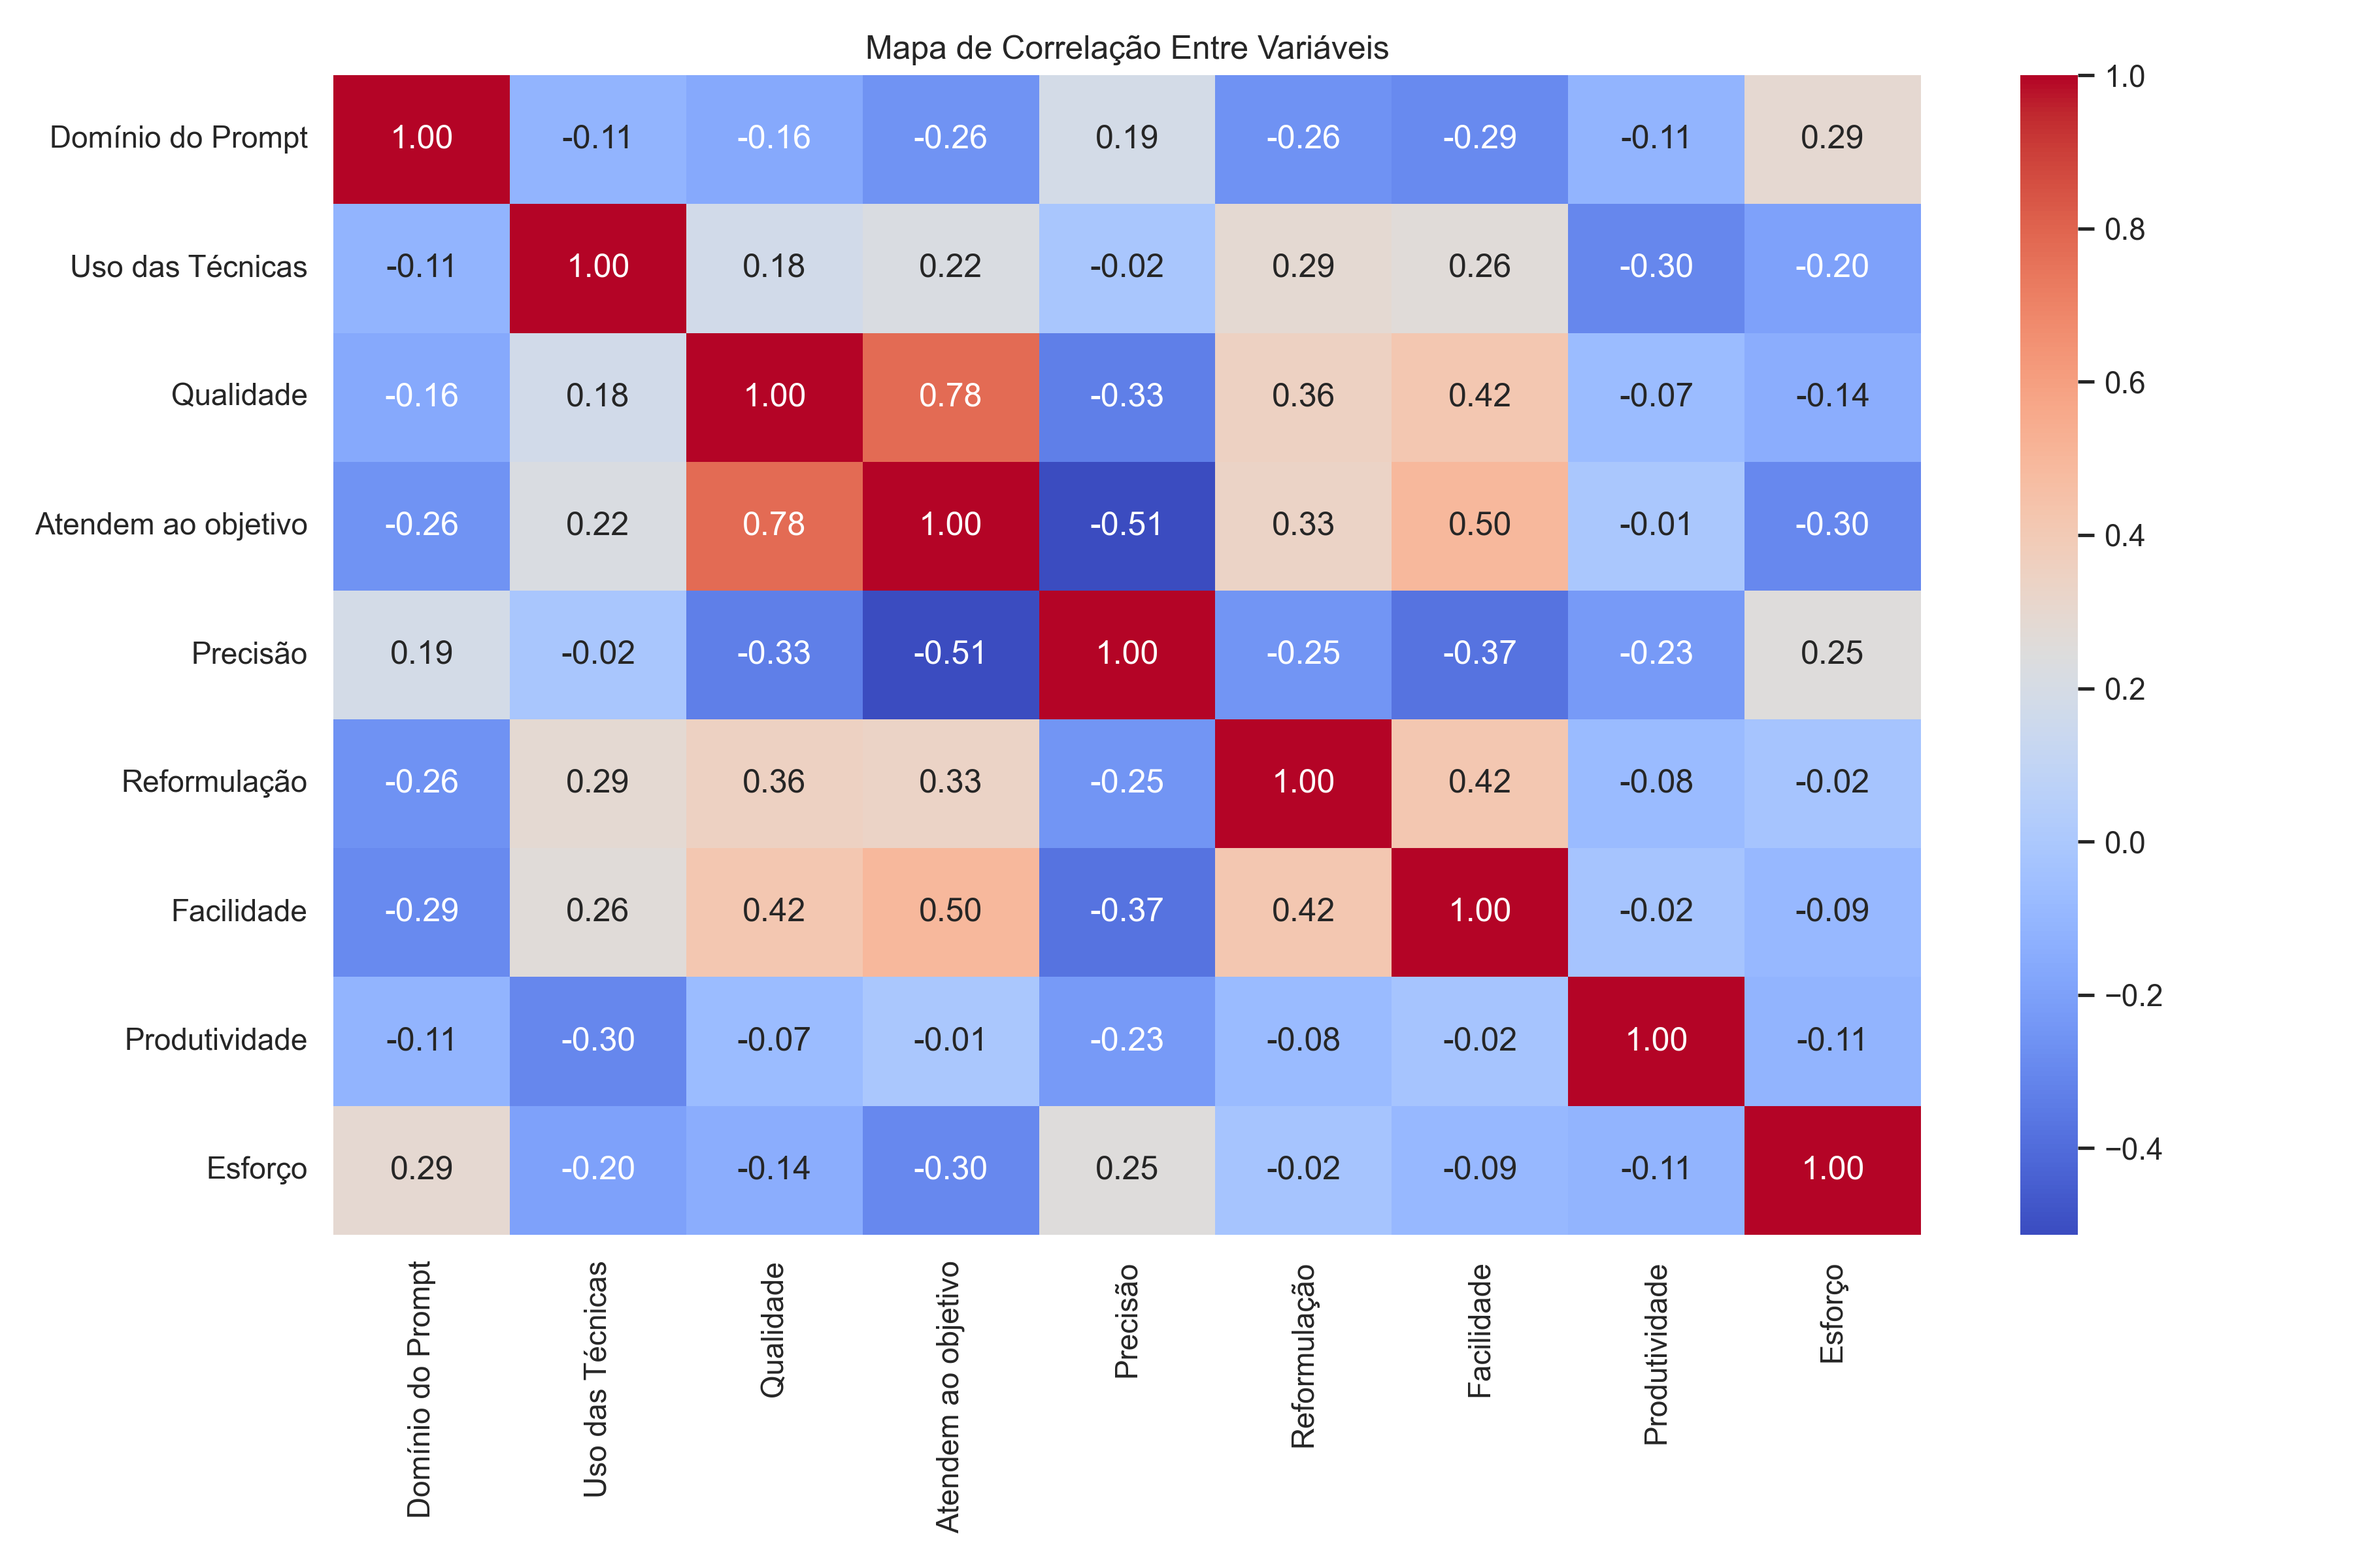
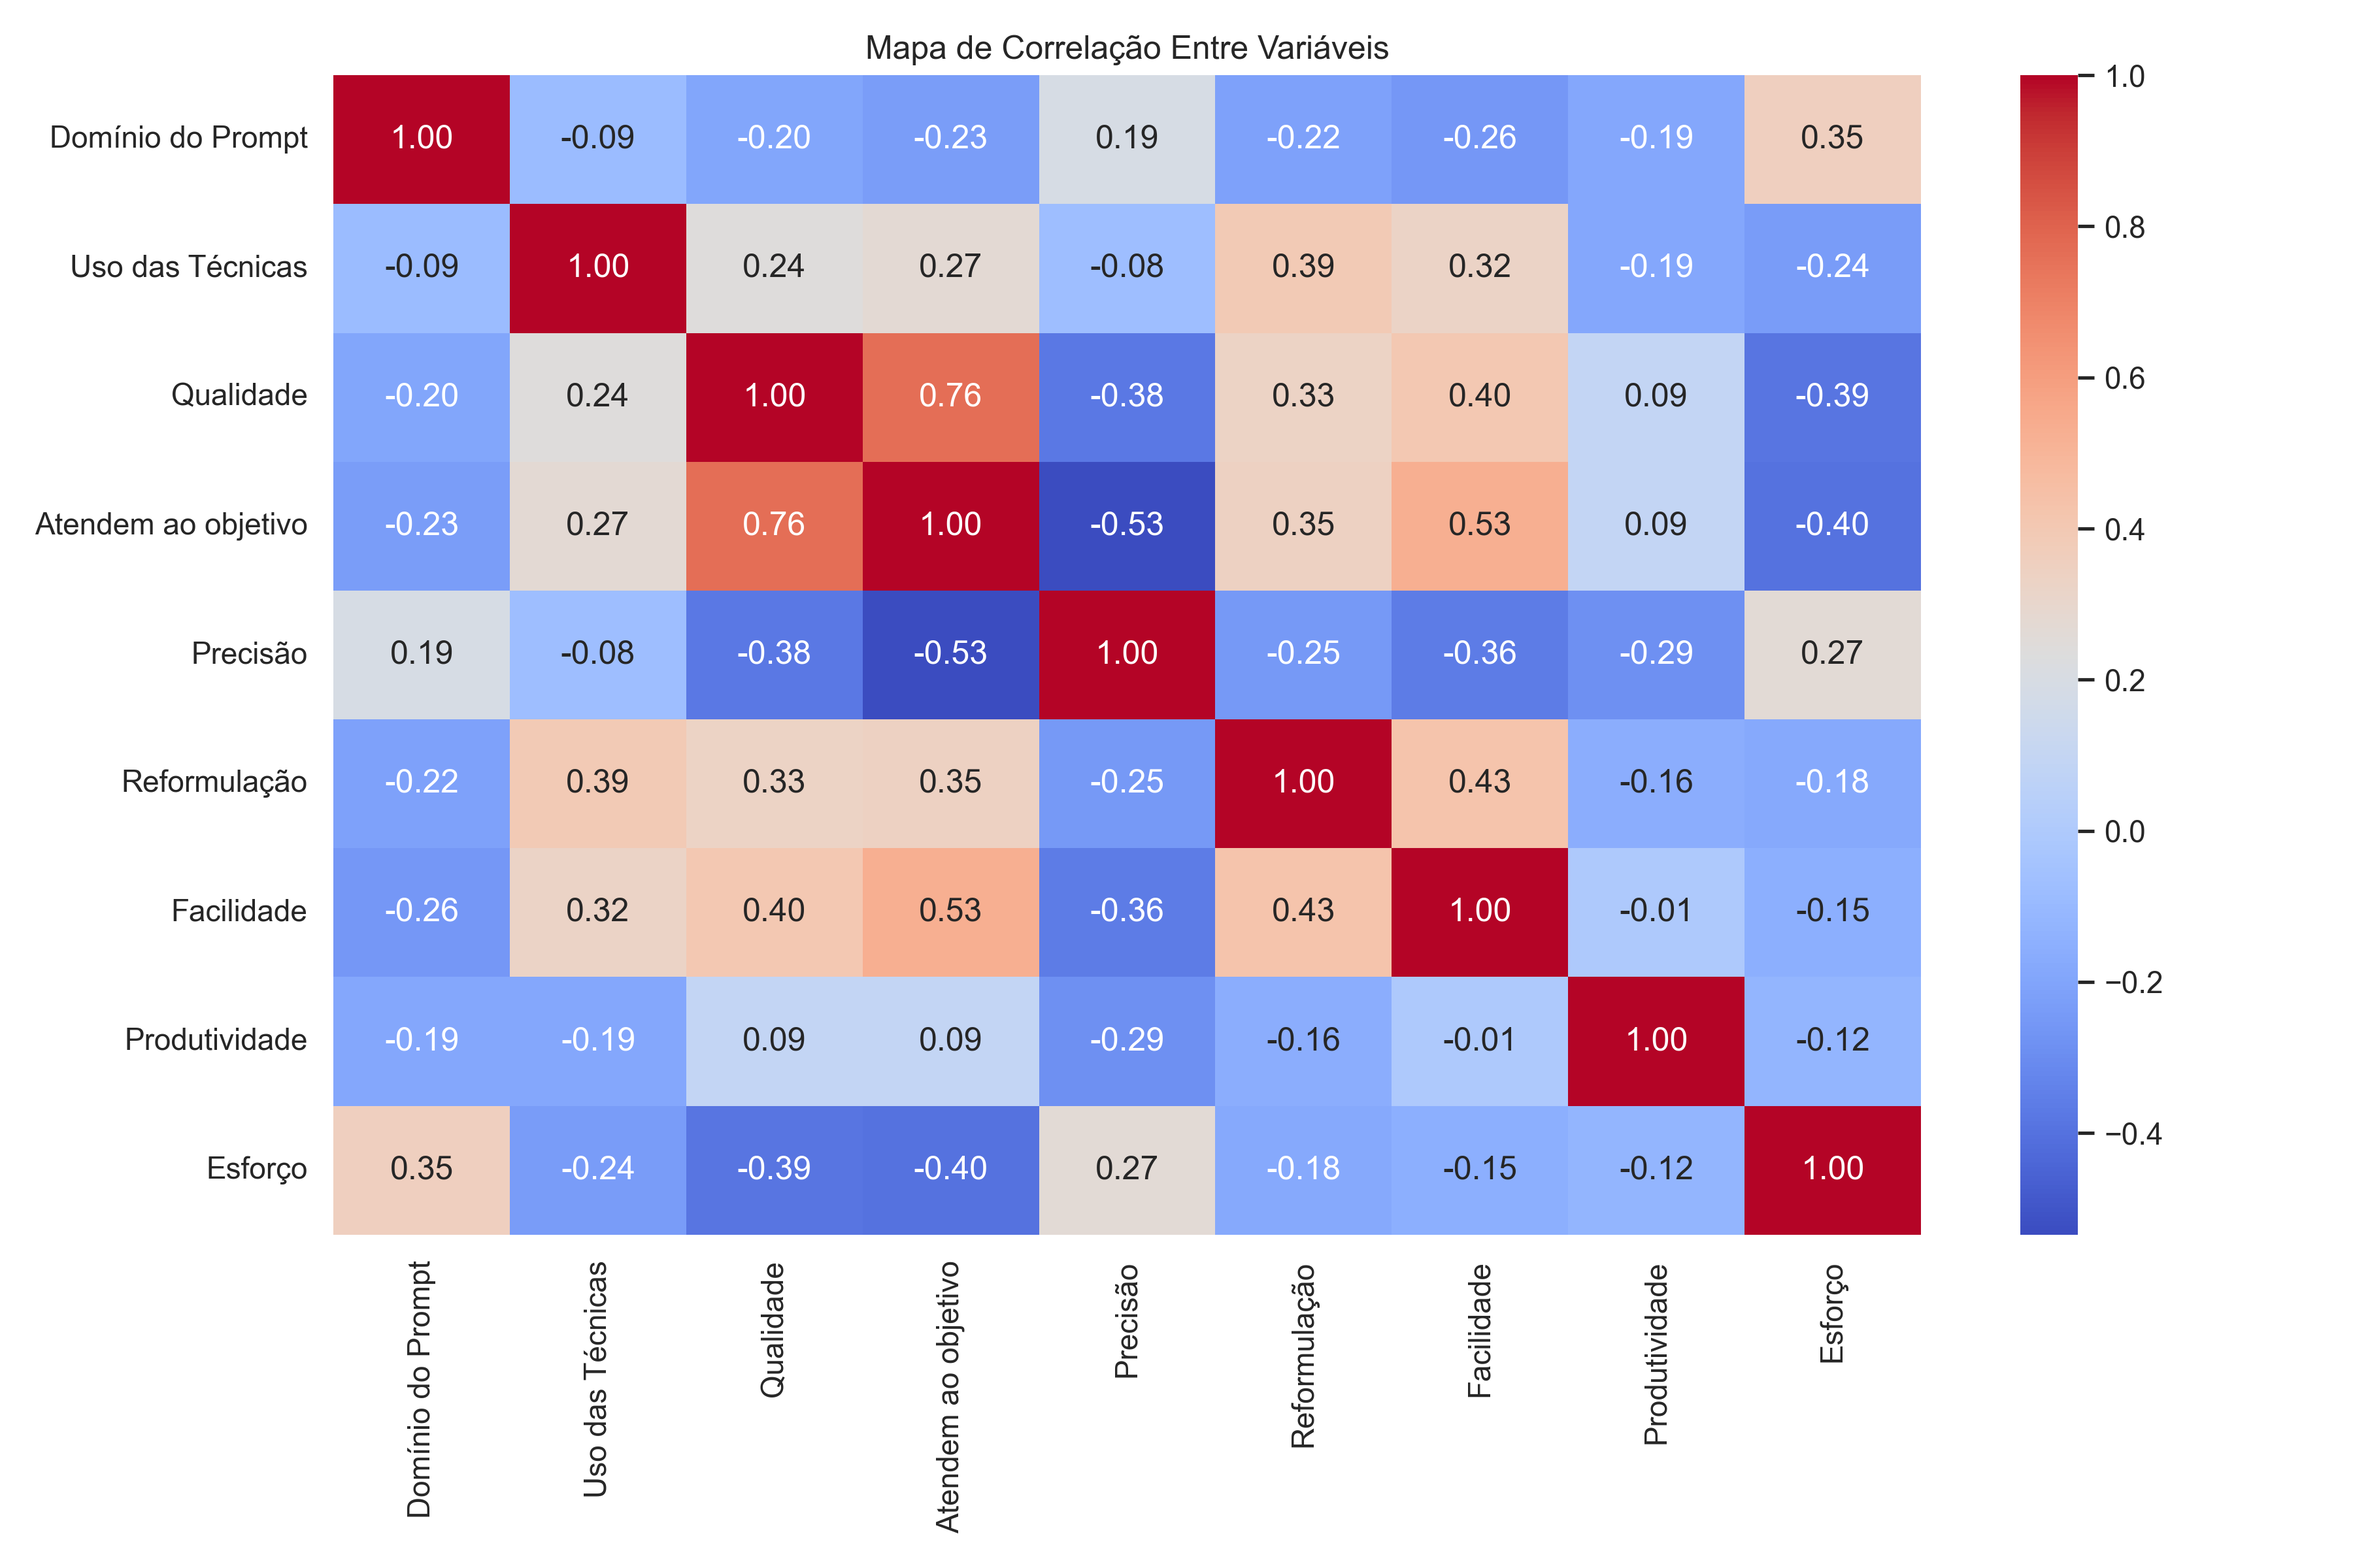
Using spearman to generate heatmap

diff --git a/analise.py b/analise.py
@@ -145,7 +145,7 @@ df_corr = pd.DataFrame()
 for coluna in variaveis:
     df_corr[coluna] = pd.Categorical(df[coluna]).codes
 
-corr = df_corr.corr()
+corr = df_corr.corr(method='spearman')
 
 plt.figure(figsize=(12, 8))
 
